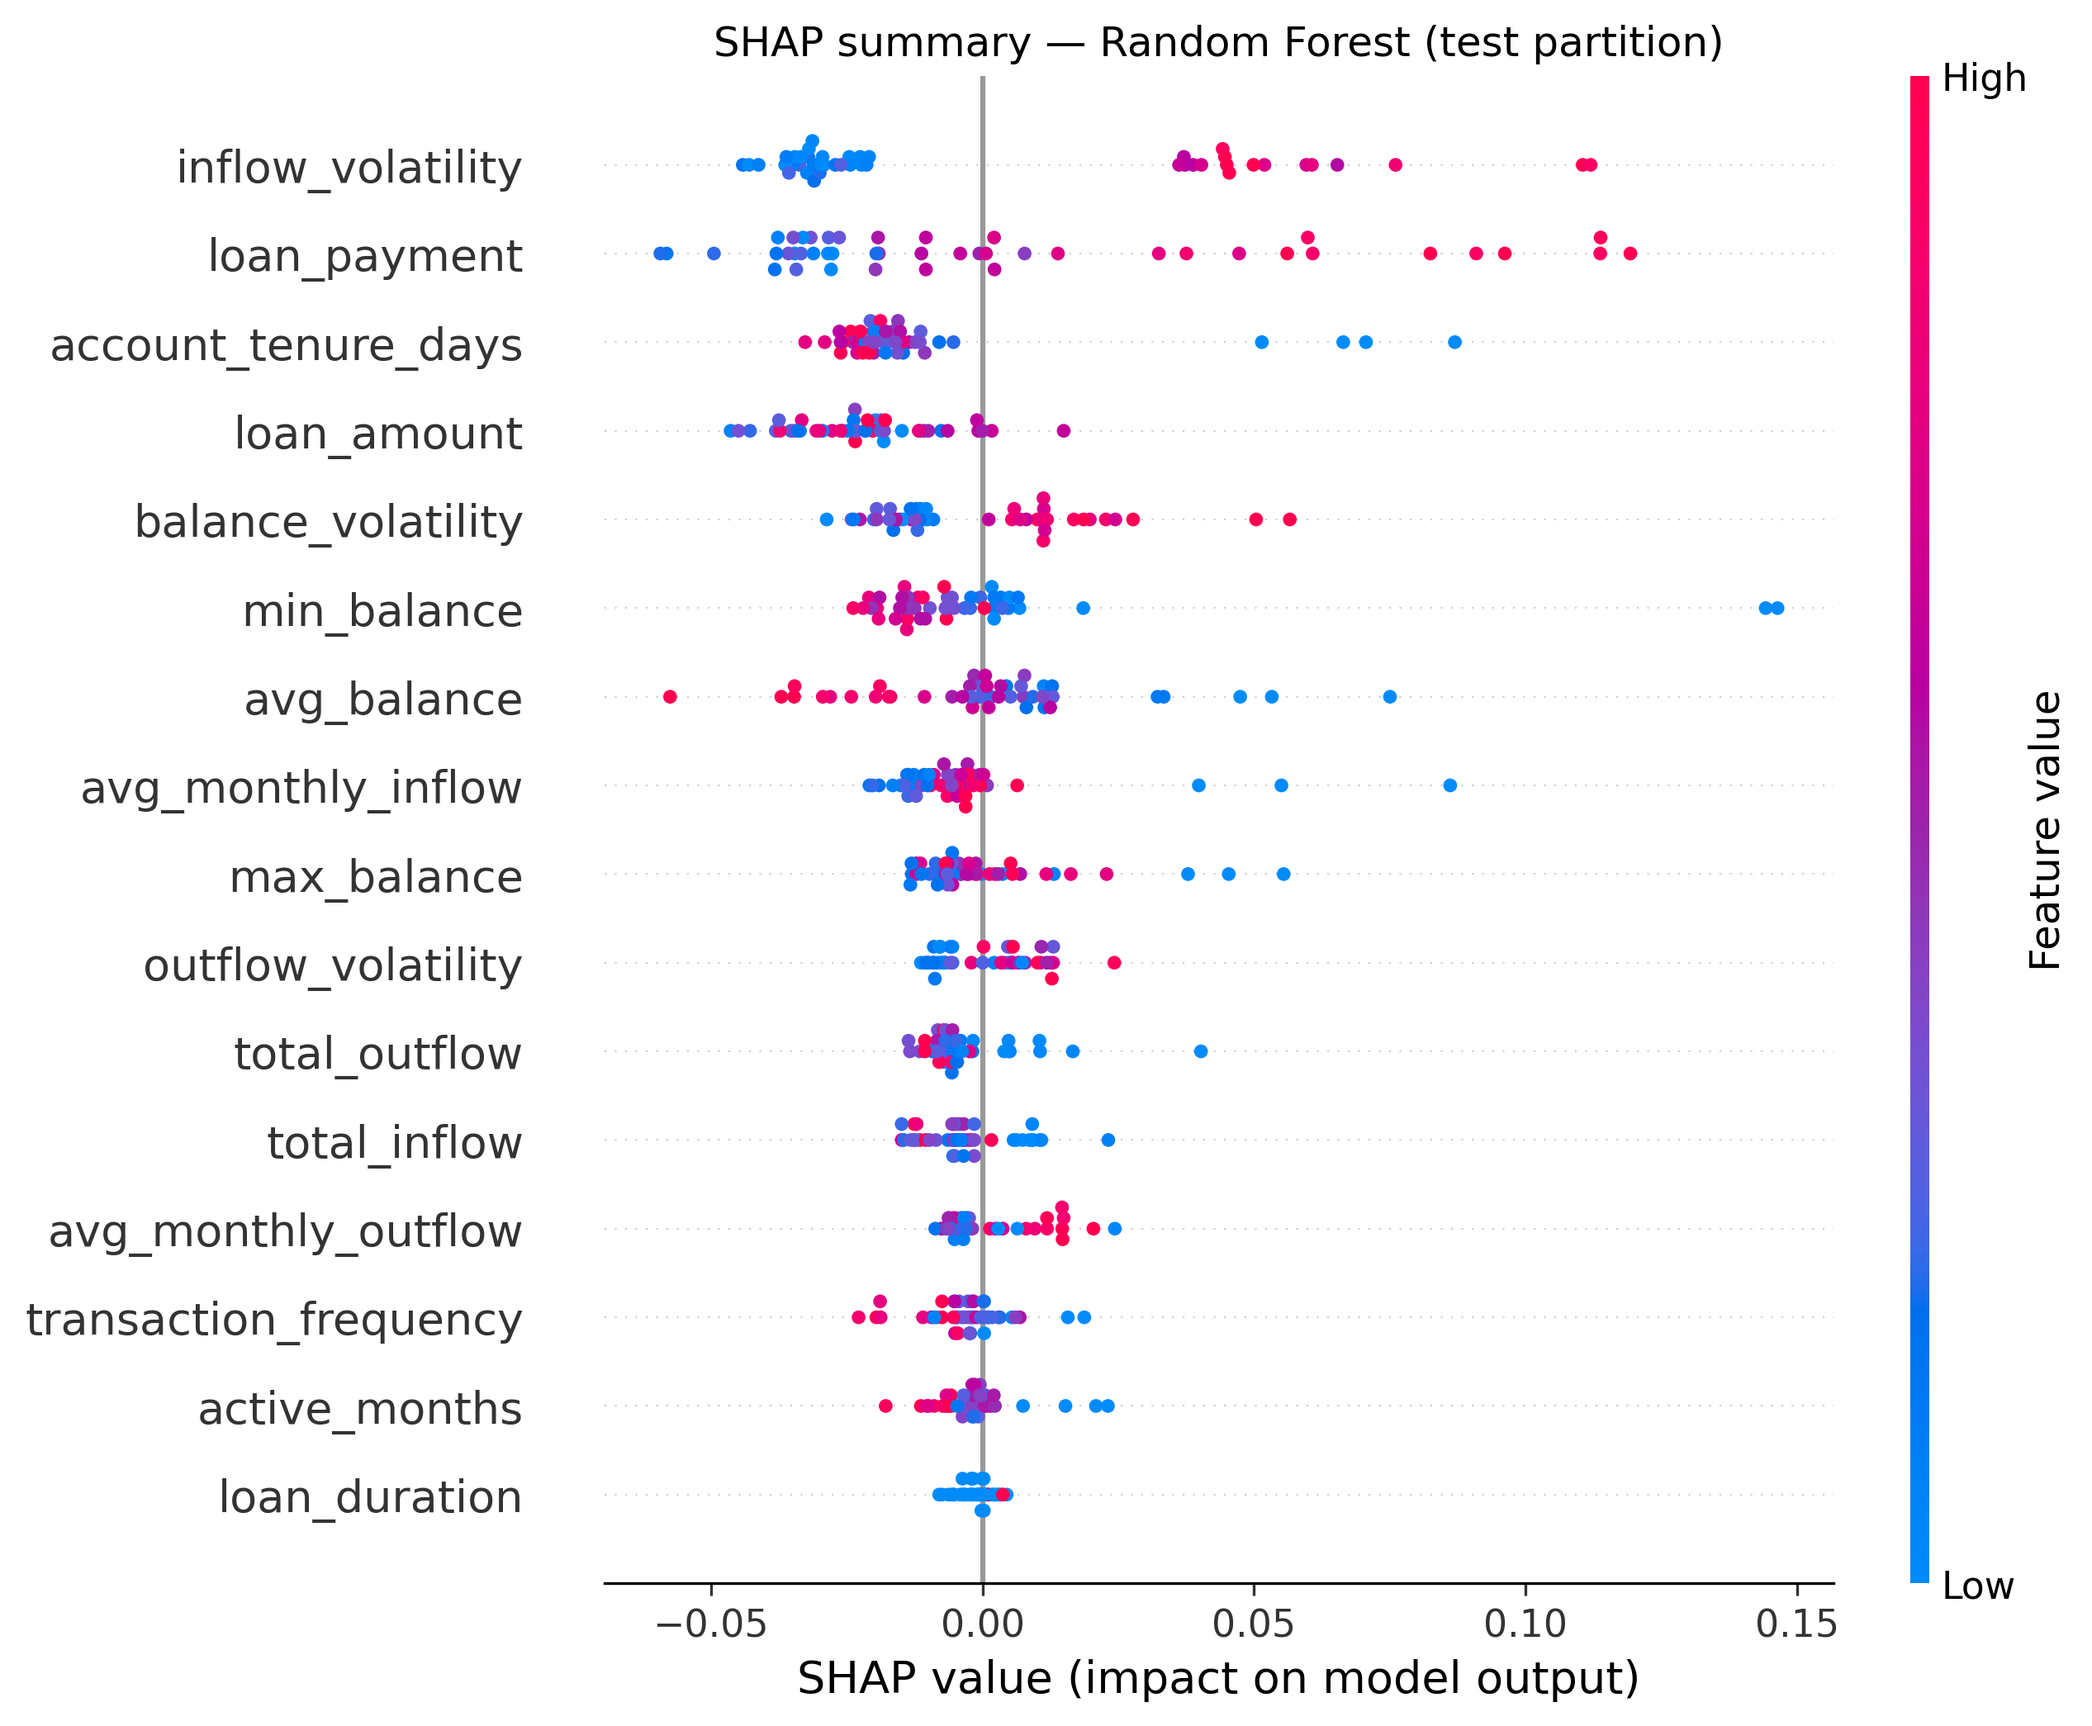
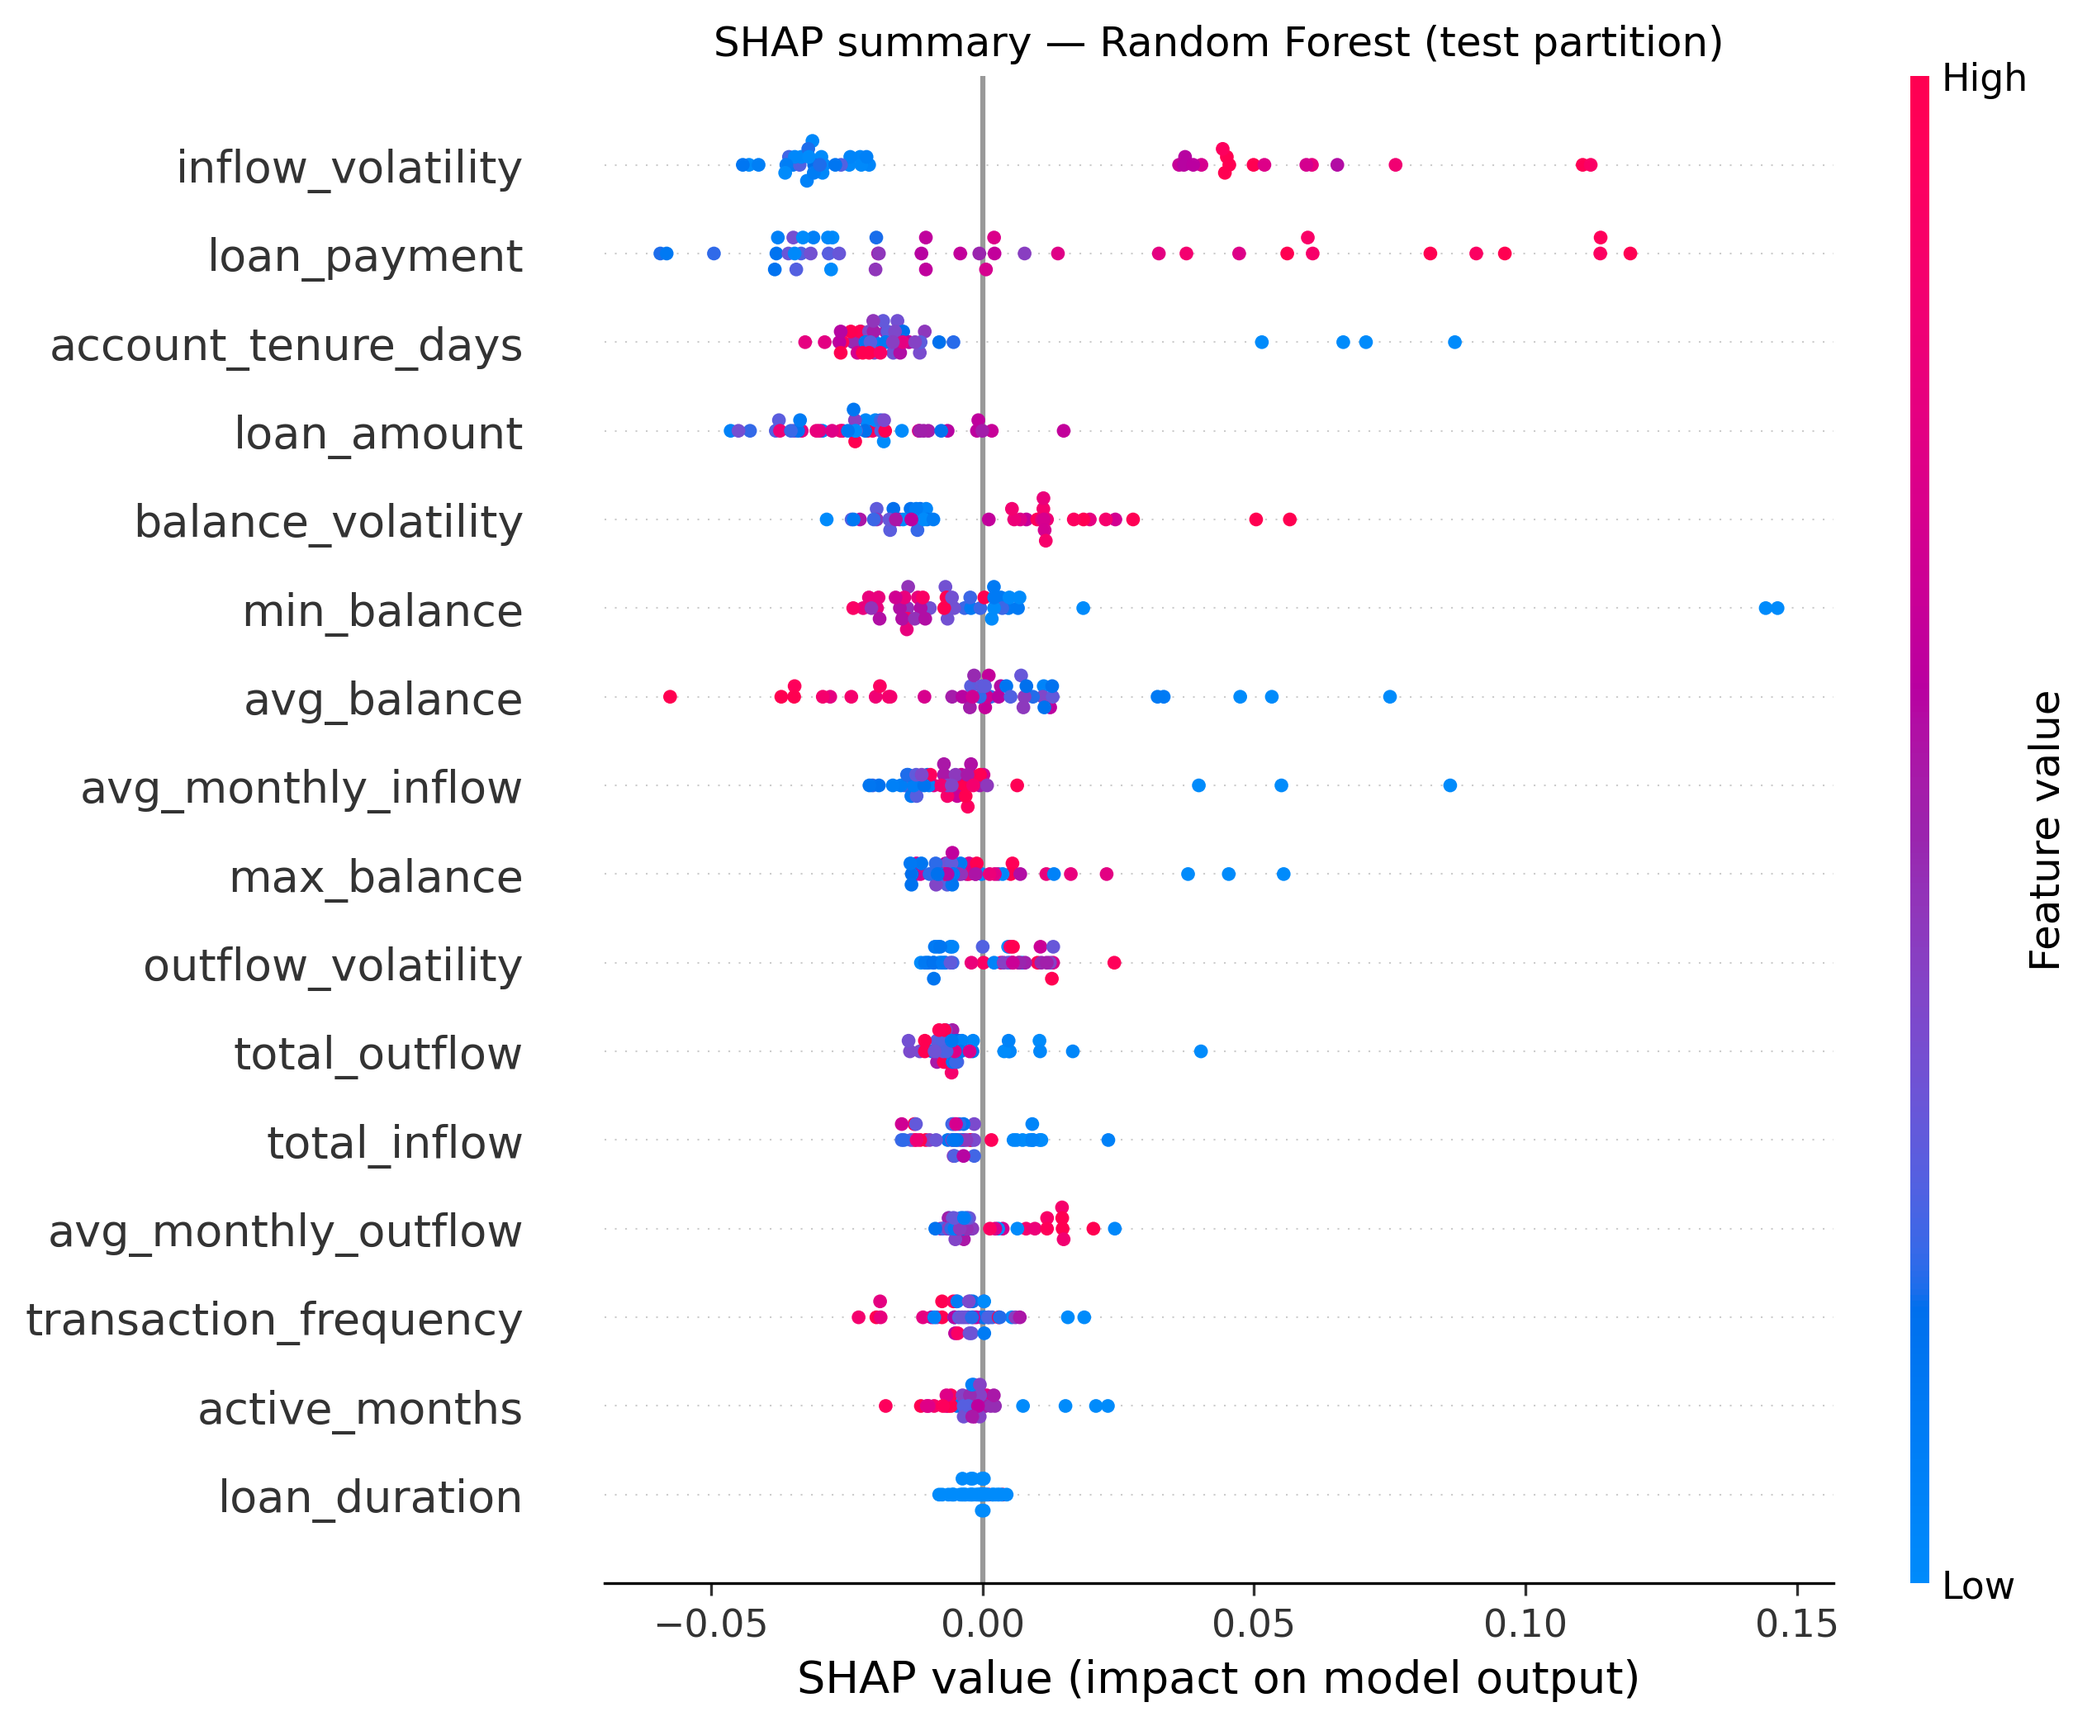
add dependence plots and similar-observation explanation consistency

diff --git a/src/11_stability_analysis.py b/src/11_stability_analysis.py
@@ -73,7 +73,8 @@ def main():
 
     # ---- 2. SHAP vs LIME on the frozen final model ---------------------------
     model = joblib.load(MODELS / f"{final}.pkl")
-    shap_imp = np.abs(shap_explanation(final, model, X_tr, X_va).values).mean(axis=0)
+    sv_val = shap_explanation(final, model, X_tr, X_va).values
+    shap_imp = np.abs(sv_val).mean(axis=0)
     lime = LimeTabularExplainer(X_tr.to_numpy(), feature_names=FEATURE_COLS,
                                 mode="classification", random_state=RANDOM_SEED,
                                 discretize_continuous=False)
@@ -90,8 +91,40 @@ def main():
     pd.DataFrame({"shap_mean_abs": shap_imp, "lime_mean_abs_weight": lime_imp},
                  index=FEATURE_COLS).to_csv(STABILITY / "shap_vs_lime.csv")
 
+    # ---- 3. explanation variability for similar observations ---------------
+    # Each validation loan is paired with its nearest neighbour (Euclidean
+    # distance on features standardised with training-partition statistics)
+    # and, as a reference, with a randomly drawn validation loan. Similarity of
+    # the two SHAP vectors is measured by Spearman rho. Similar loans should
+    # receive more similar explanations than random pairs.
+    mu, sd = X_tr.mean(), X_tr.std(ddof=0).replace(0, 1)
+    Z = ((X_va - mu) / sd).to_numpy()
+    dist = np.linalg.norm(Z[:, None, :] - Z[None, :, :], axis=2)
+    np.fill_diagonal(dist, np.inf)
+    nn = dist.argmin(axis=1)
+    rng_pairs = np.random.default_rng(RANDOM_SEED)
+    rand = np.array([rng_pairs.choice([j for j in range(len(Z)) if j != i]) for i in range(len(Z))])
+    nn_rho = np.array([spearmanr(sv_val[i], sv_val[nn[i]])[0] for i in range(len(Z))])
+    rand_rho = np.array([spearmanr(sv_val[i], sv_val[rand[i]])[0] for i in range(len(Z))])
+    pd.DataFrame({"loan_id": val["loan_id"], "nearest_neighbour_loan_id": val["loan_id"].iloc[nn].values,
+                  "nn_distance": dist[np.arange(len(Z)), nn], "nn_shap_rho": nn_rho,
+                  "random_pair_shap_rho": rand_rho}).to_csv(STABILITY / "similar_observation_consistency.csv",
+                                                            index=False)
+    from scipy.stats import wilcoxon
+    w_stat, w_p = wilcoxon(nn_rho, rand_rho)
+
     report = {
         "explained_model": final,
+        "similar_observation_consistency": {
+            "method": "nearest neighbour vs random pair within validation partition; "
+                      "Spearman rho between SHAP vectors; Wilcoxon signed-rank test",
+            "pairs": int(len(Z)),
+            "nn_median_rho": round(float(np.median(nn_rho)), 4),
+            "random_median_rho": round(float(np.median(rand_rho)), 4),
+            "nn_mean_rho": round(float(np.mean(nn_rho)), 4),
+            "random_mean_rho": round(float(np.mean(rand_rho)), 4),
+            "wilcoxon_p": round(float(w_p), 4),
+        },
         "refit_stability": {
             "method": f"{N_REFITS} bootstrap refits of training partition, frozen hyperparameters; "
                       "SHAP on validation partition; pairwise Spearman of mean |SHAP|",

diff --git a/src/10_xai_analysis.py b/src/10_xai_analysis.py
@@ -71,8 +71,18 @@ def main():
     plt.savefig(XAI / "fig_4_shap_bar.png", dpi=300, bbox_inches="tight")
     plt.close()
 
+    # Dependence plots — pre-declared rule: the 4 features with the highest
+    # mean |SHAP| for the final model (no test labels involved)
+    top4 = imp[DISPLAY[final]].sort_values(ascending=False).head(4).index.tolist()
+    for feat in top4:
+        plt.figure()
+        shap.plots.scatter(e[:, feat], color=e, show=False)
+        plt.title(f"SHAP dependence — {feat} ({DISPLAY[final]}, test partition)")
+        plt.savefig(XAI / f"fig_4_shap_dependence_{feat}.png", dpi=300, bbox_inches="tight")
+        plt.close("all")
+
     proba = model.predict_proba(X_te)[:, 1]
-    cases = {"highest_risk": int(np.argmax(proba)), "lowest_risk": int(np.argmin(proba))}
+    cases ={"highest_risk": int(np.argmax(proba)), "lowest_risk": int(np.argmin(proba))}
     for label, i in cases.items():
         plt.figure()
         shap.plots.waterfall(e[i], max_display=10, show=False)
@@ -101,6 +111,8 @@ def main():
         "background_data": f"training partition ({len(X_bg)} loans)",
         "explained_instances": f"test partition ({len(X_te)} loans)",
         "local_cases": lime_out,
+        "dependence_plot_features": top4,
+        "dependence_rule": "top 4 features by mean |SHAP| of the final model",
         "top5_final_model": imp[DISPLAY[final]].sort_values(ascending=False).head(5).round(4).to_dict(),
     }
     (XAI / "xai_meta.json").write_text(json.dumps(meta, indent=2))
